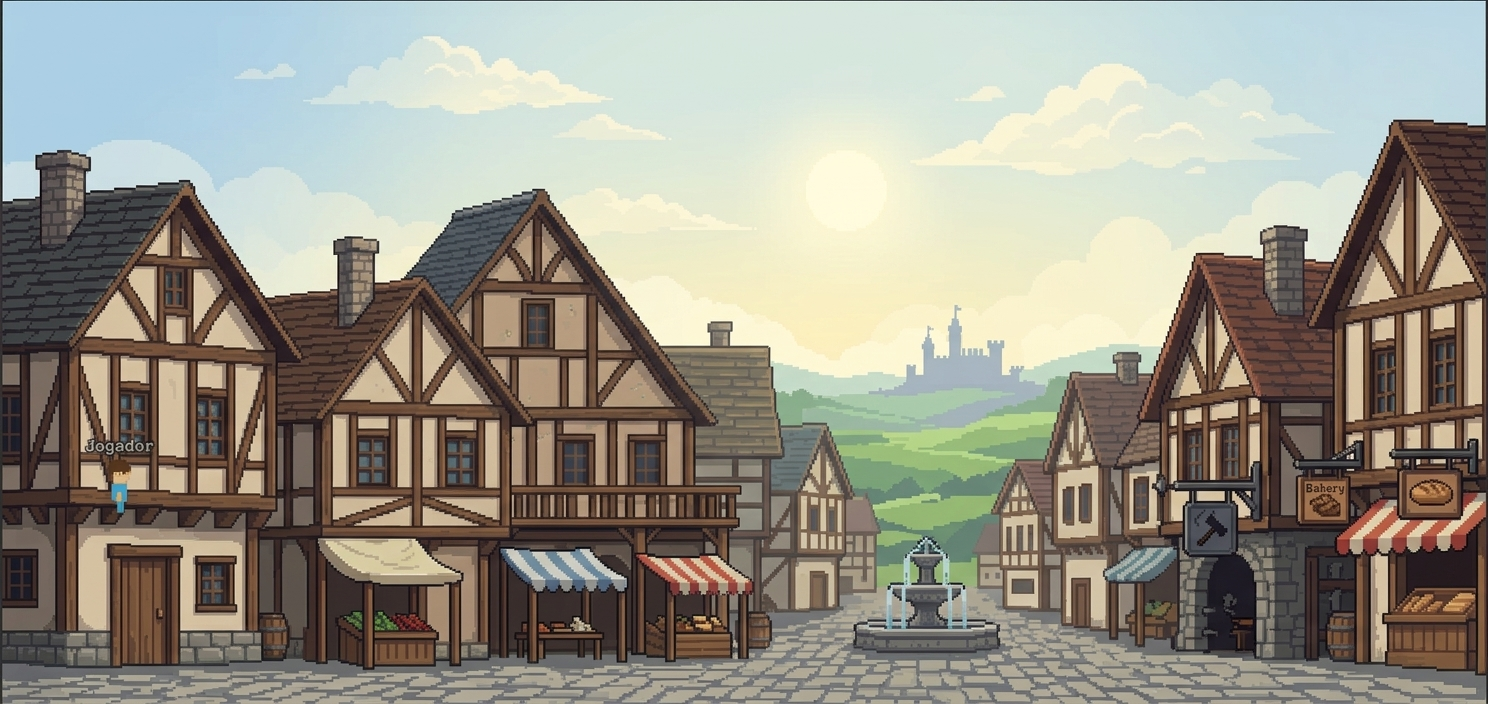
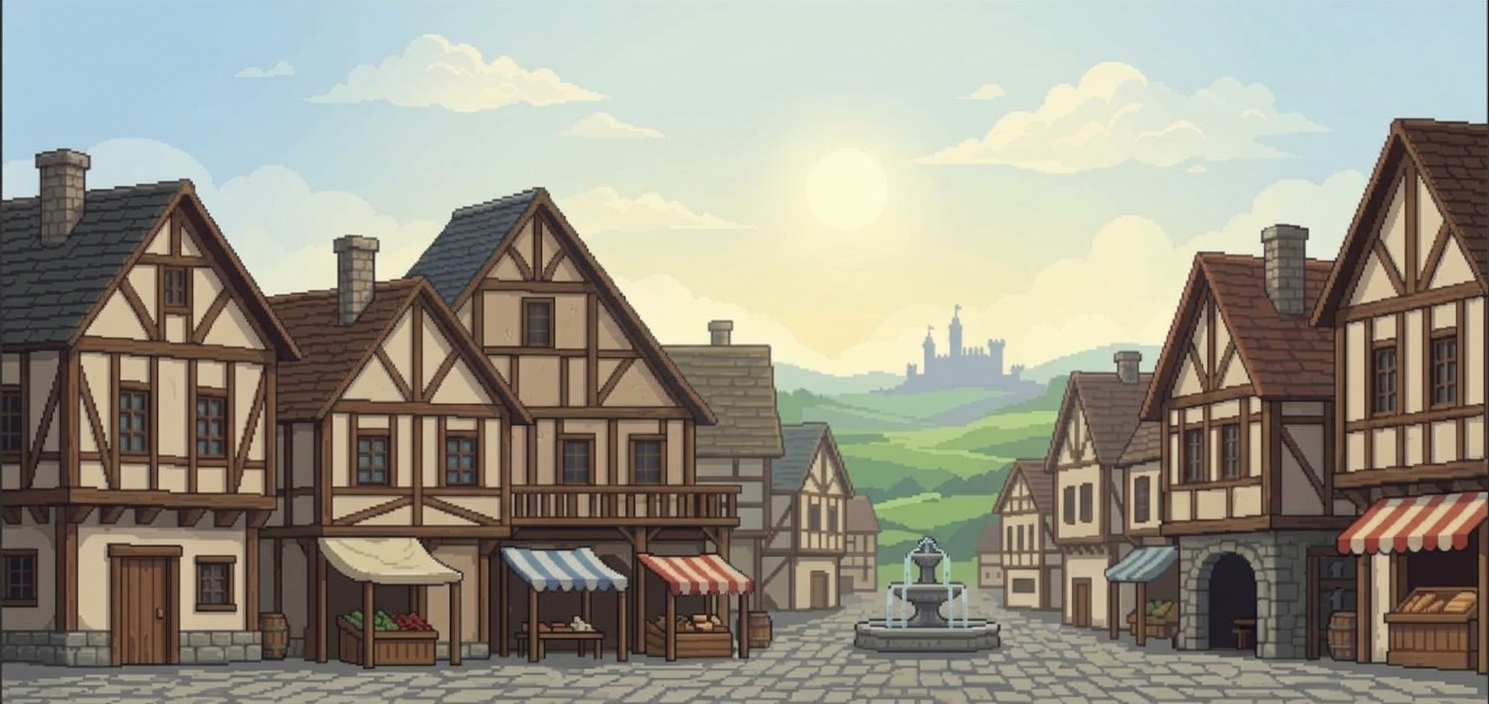
Remove plataformas e atualiza imagens de fundo

diff --git a/Server/wwwroot/game.js b/Server/wwwroot/game.js
@@ -289,7 +289,7 @@ function create() {
   createColorTextures(this);
   background = this.add.image(0, 0, 'bg' + backgroundPeriod).setOrigin(0).setDisplaySize(WORLD_W, VIEW_H).setDepth(-10);
 
-  // Mapa: chão + 3 plataformas (retângulos estáticos)
+  // Mapa: só o chão (invisível; a rua desenhada no fundo é o chão visível)
   const platforms = this.physics.add.staticGroup();
   const addPlatform = (x, y, w, h, color) => {
     const r = this.add.rectangle(x, y, w, h, color ?? 0).setVisible(color !== null);
@@ -297,11 +297,6 @@ function create() {
     platforms.add(r);
   };
   addPlatform(WORLD_W / 2, 580, WORLD_W, 40, null); // chão invisível (o chão visível é a rua do fundo)
-  addPlatform(200, 450, 200, 20, 0x8b5a2b);
-  addPlatform(520, 340, 200, 20, 0x8b5a2b);
-  addPlatform(150, 220, 160, 20, 0x8b5a2b);
-  addPlatform(850, 450, 200, 20, 0x8b5a2b);
-  addPlatform(1100, 320, 200, 20, 0x8b5a2b);
 
   // Jogador local
   // O corpo físico é um retângulo invisível; a imagem do personagem o acompanha
